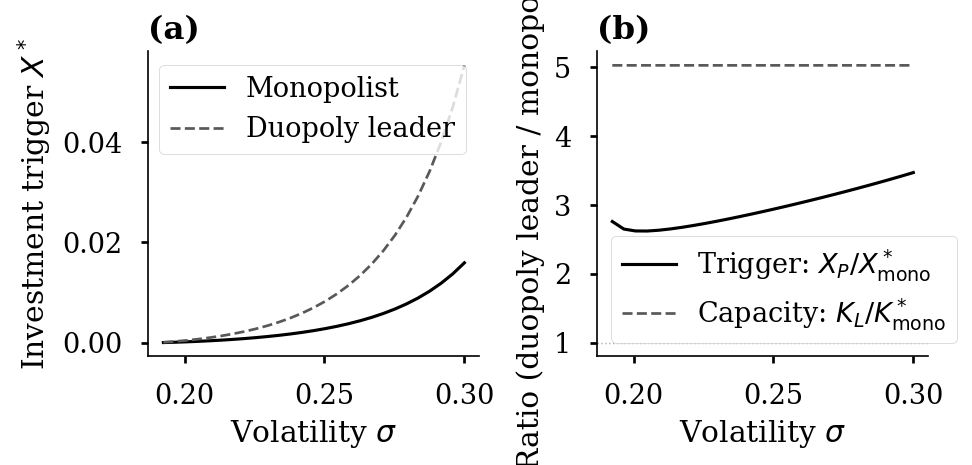
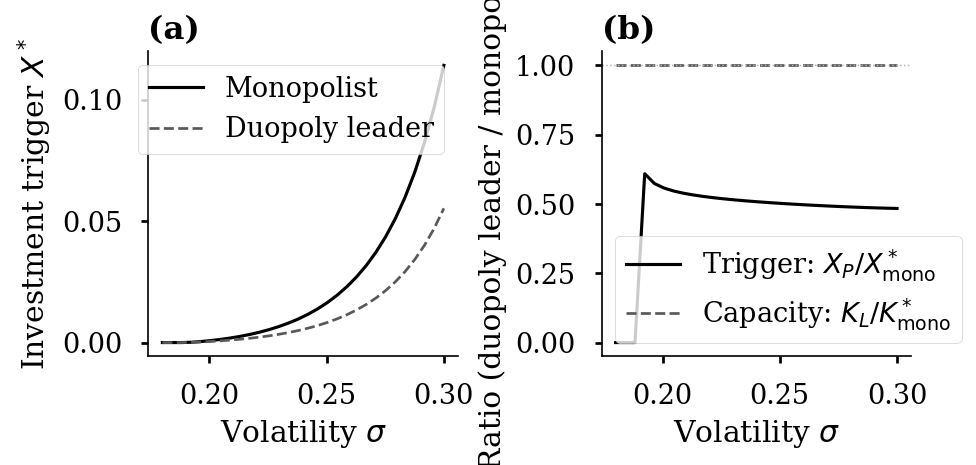
Fix competition effect figure and appendix monopoly-phase ratio
Two bugs sharing the same root cause (wrong monopolist benchmark):

1. figures/paper.py create_competition_effect(): was using simple
   (no-phi) SingleFirmModel as the monopolist benchmark, yielding
   trigger ratio ~2.9 and capacity ratio ~5.0. Should compare against
   the phi-aware monopolist (eq["X_leader_monopolist"]), which gives
   trigger ratio ~0.50 and capacity ratio = 1.00 exactly — matching
   the paper's description that preemption compresses timing by ~50%
   while leaving capacity unchanged. Regenerated fig_competition_effect.

2. _appendix.qmd Prop 3(ii) proof: monopoly-phase duration quoted as
   "X_F/X_P ≈ 1.3–1.8" (inherited from standard Huisman-Kort with
   fixed capacity). Corrected to ~40–70, reflecting the follower's
   endogenously much larger capacity that requires high demand to justify.

diff --git a/src/ai_lab_investment/figures/paper.py b/src/ai_lab_investment/figures/paper.py
@@ -365,7 +365,6 @@ def create_credit_risk() -> plt.Figure:
 
 def create_competition_effect() -> plt.Figure:
     """Two-panel: monopolist vs duopoly leader triggers and ratios."""
-    from ..models.base_model import SingleFirmModel
     from ..models.duopoly import DuopolyModel
     from ..models.parameters import ModelParameters
 
@@ -380,18 +379,18 @@ def create_competition_effect() -> plt.Figure:
     for i, s in enumerate(sigmas):
         try:
             ps = p.with_param(sigma=s)
-            m = SingleFirmModel(ps)
-            X_m, K_m = m.optimal_trigger_and_capacity("H")
-            mono_trig[i] = X_m
-
             duo = DuopolyModel(ps, leverage=0.0)
             eq = duo.solve_preemption_equilibrium("H")
+            X_mono = eq["X_leader_monopolist"]
+            # same K as monopolist: preemption uses monopolist's optimal K
+            K_mono = eq["K_leader"]
+            mono_trig[i] = X_mono
             leader_trig[i] = eq["X_leader"]
 
-            if X_m > 0:
-                trig_ratio[i] = eq["X_leader"] / X_m
-            if K_m > 0:
-                cap_ratio[i] = eq["K_leader"] / K_m
+            if X_mono > 0:
+                trig_ratio[i] = eq["X_leader"] / X_mono
+            if K_mono > 0:
+                cap_ratio[i] = eq["K_leader"] / K_mono
         except (ValueError, RuntimeError):
             pass
 
